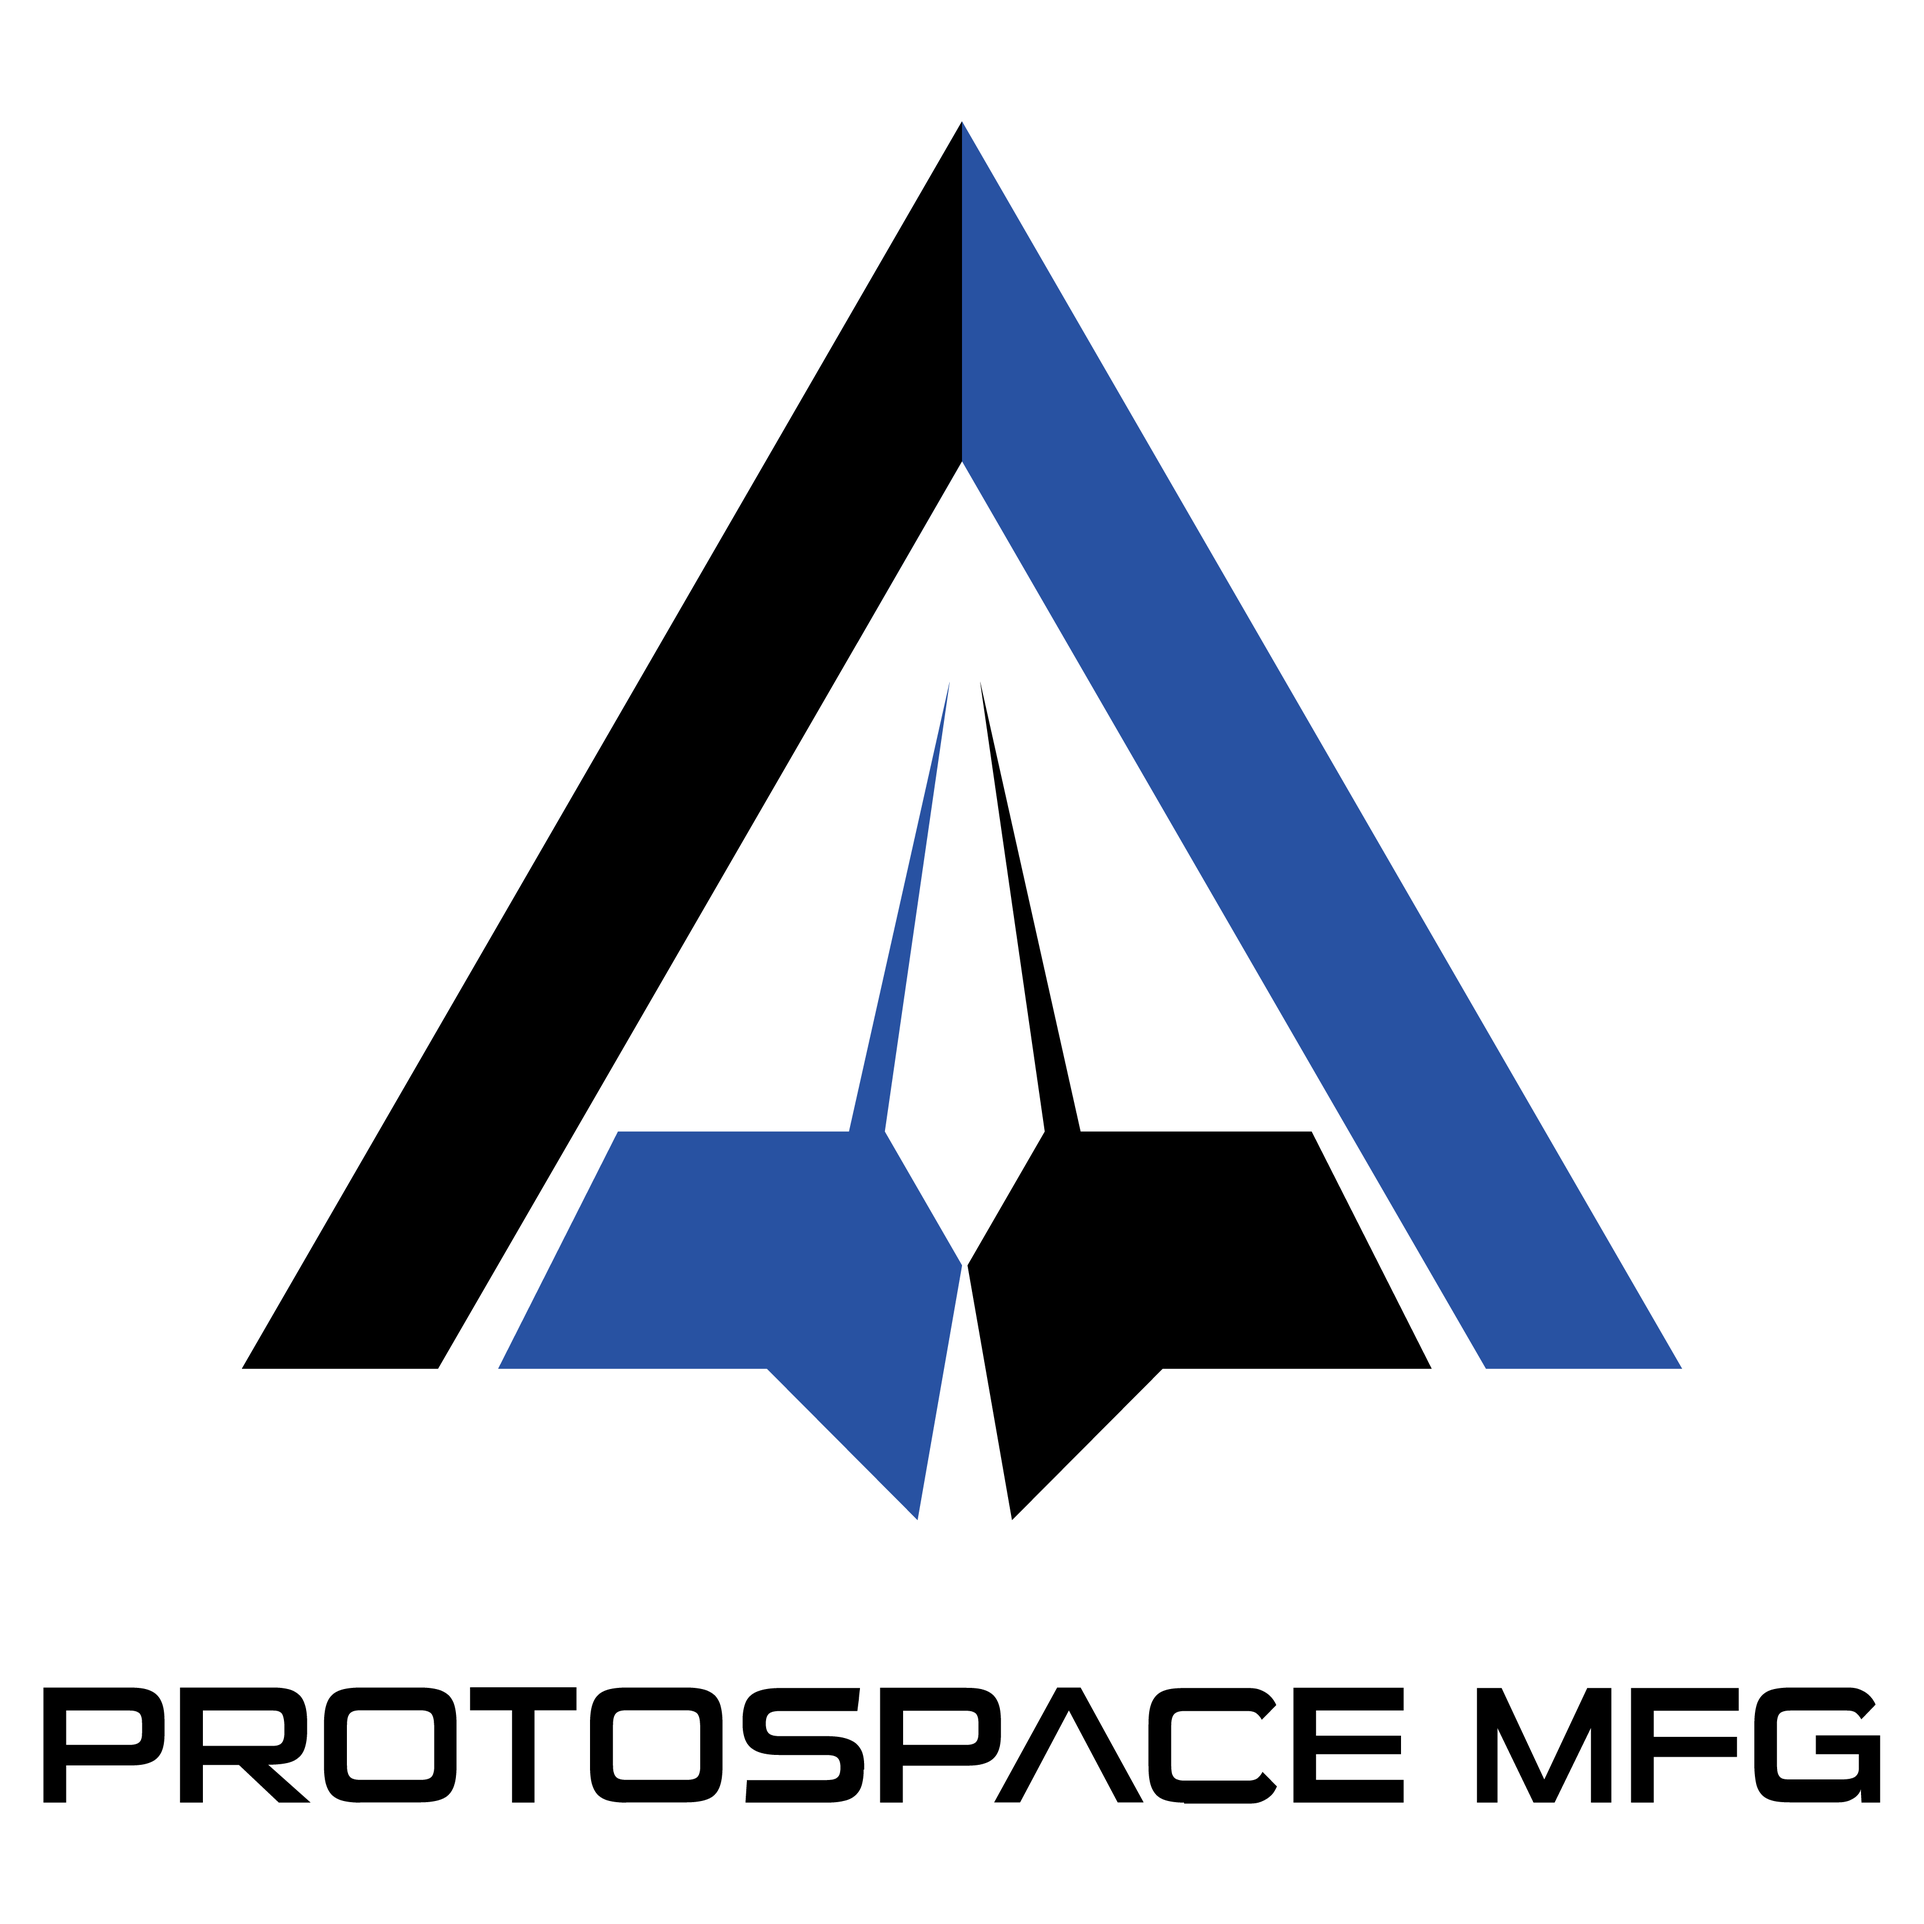
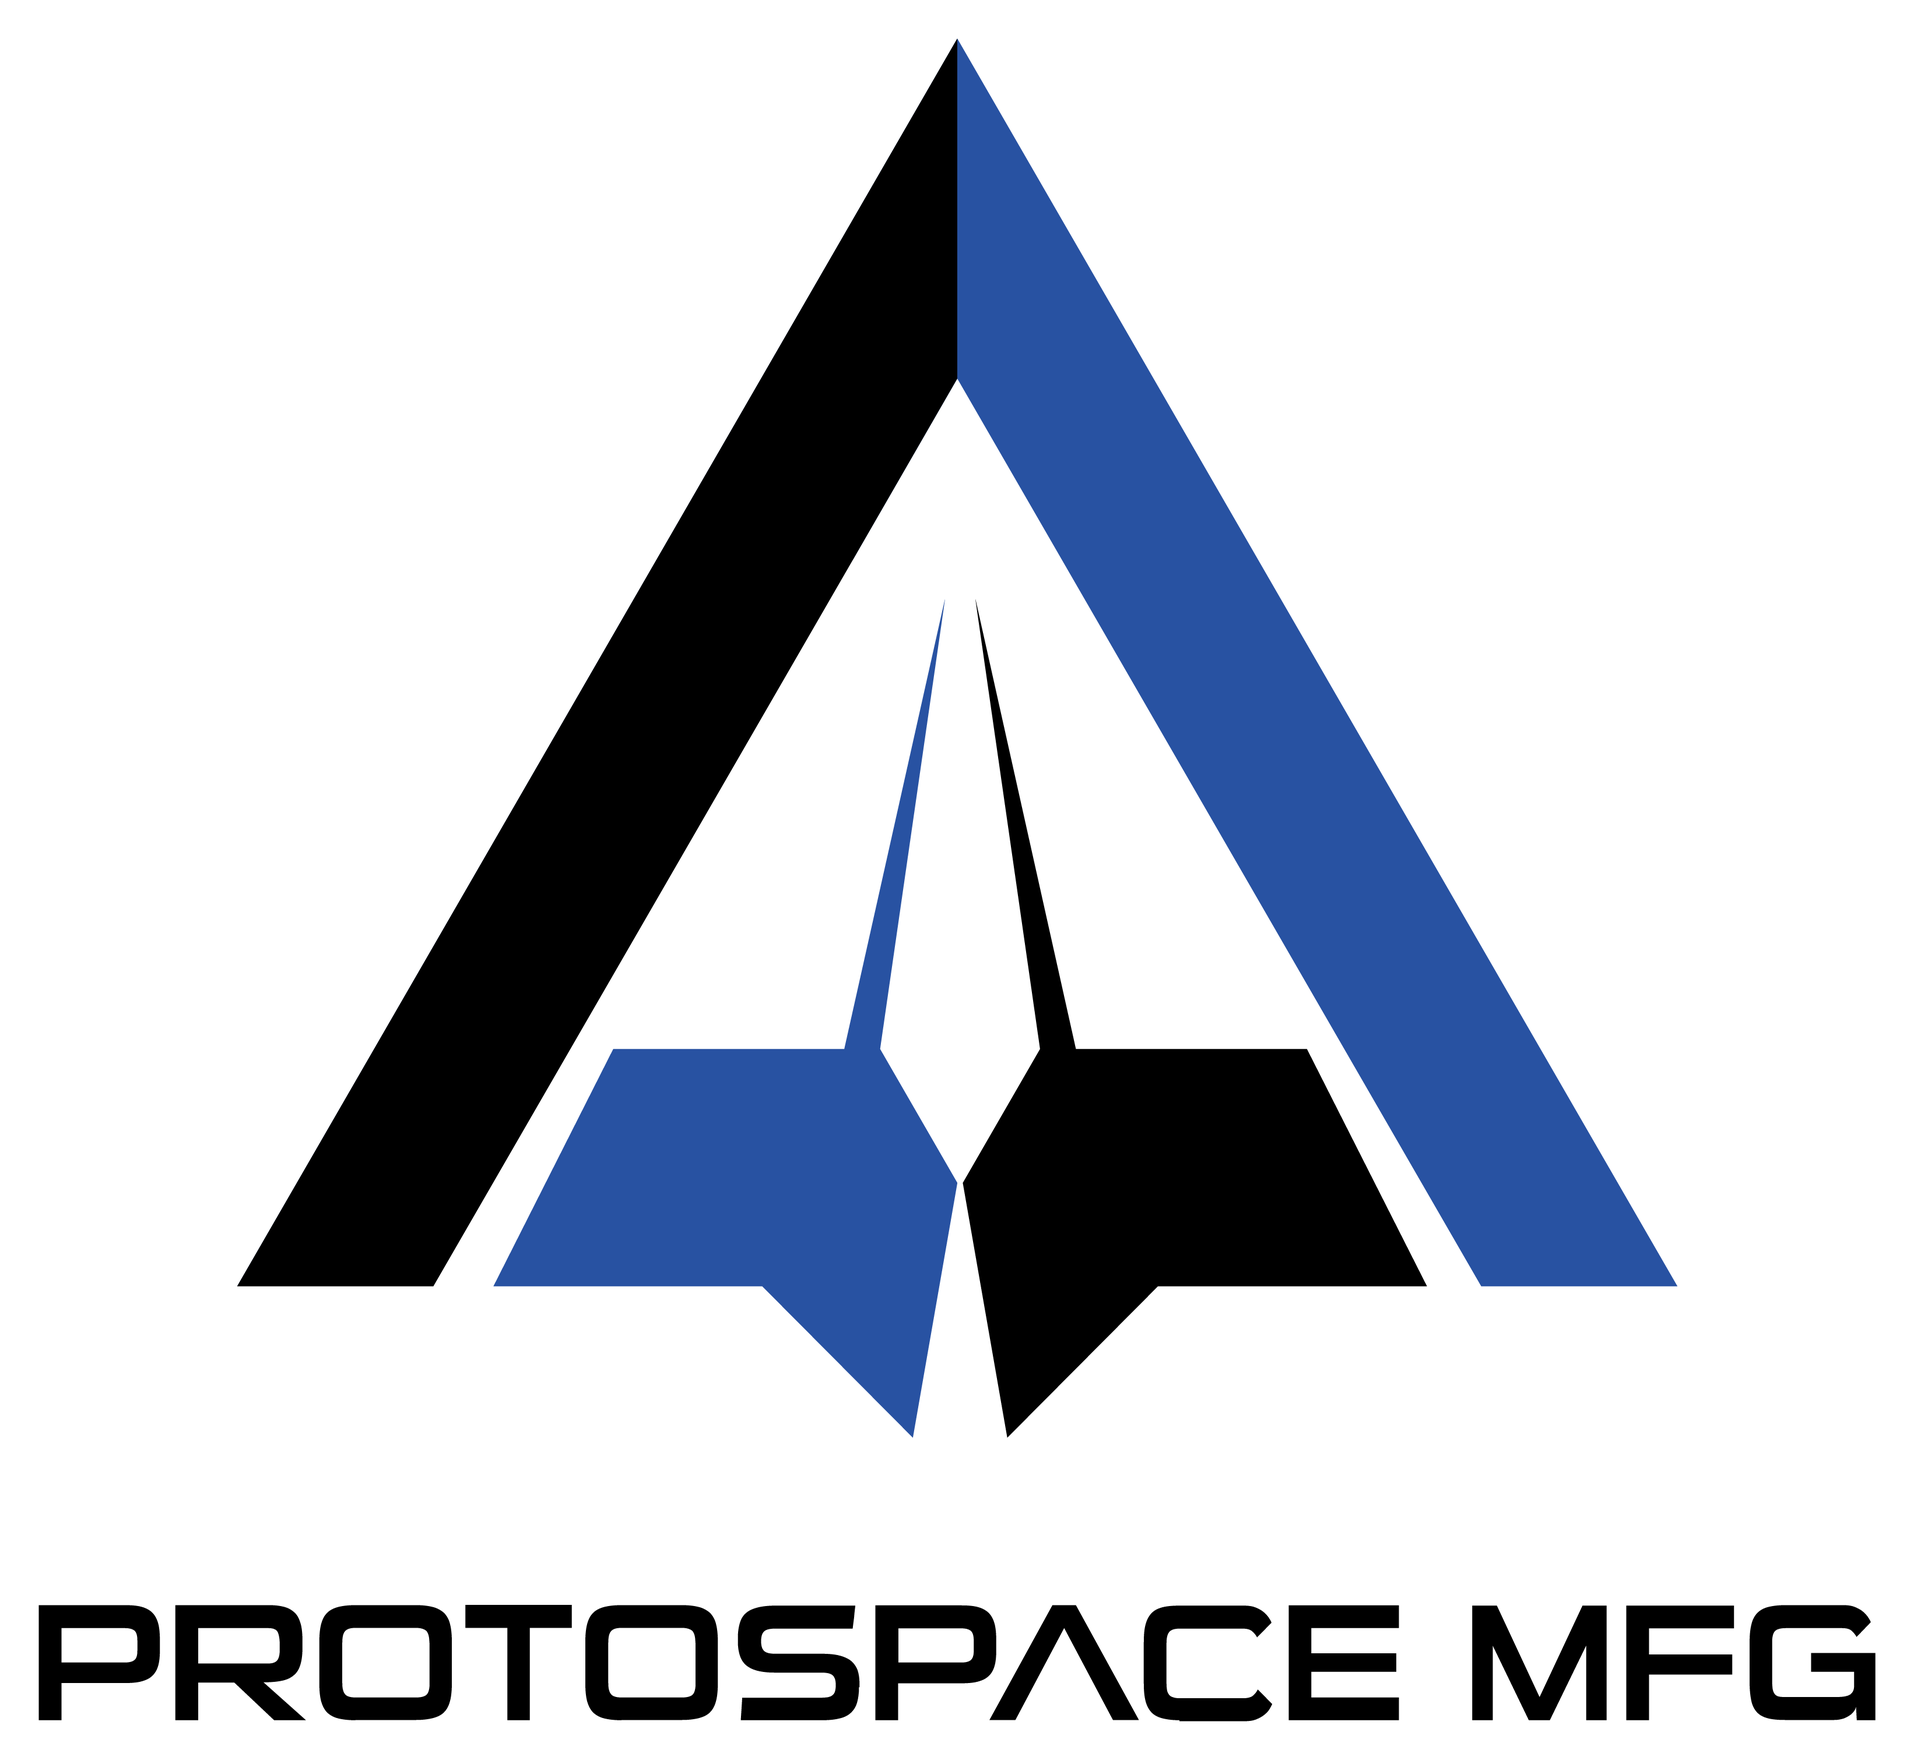
feat: rebuild partners page around a full-bleed white band
The page previously showed small logos on dark cards, which undersold the
partners and forced light artwork onto a dark ground. The partner section
is now a full-bleed white band broken into two labelled levels:

- LEVEL 01, who funds the team: McKelvey and Physics, two-up, logos at
  7rem to 9rem with room to breathe.
- LEVEL 02, in-kind partners: the five companies giving parts,
  manufacturing and software, three-up on desktop.

White is the functional choice rather than a stylistic one. Every partner
supplied full-colour artwork drawn for light backgrounds, and MISUMI's
guidelines forbid recolouring, so a white ground is the only way to show
all seven marks exactly as their owners issued them.

Added the last three logos: WashU Department of Physics, SolidWorks and
SendCutSend. All seven partners now have real artwork and the placeholder
path is unused, though it stays for whoever comes next.

Trimmed dead space from two files so they display at parity with the
others: MISUMI 1313x488 to 1118x154, ProtoSpace 3300x3300 to 3283x3018.
MISUMI had roughly 100px of transparent padding a side.

Claude-Session: https://claude.ai/code/session_01P6C1ou2d7tHGyuqjFDrT8p

diff --git a/src/routes/partners.tsx b/src/routes/partners.tsx
@@ -42,11 +42,10 @@ const SUPPORTS = [
 ];
 
 /**
- * Logos sit on a light tile rather than the page background. Several partners
- * forbid recolouring their mark, and most supplied only light-background
- * artwork, so a fixed light tile keeps every logo legible in dark mode without
- * us producing reverse versions they never approved. Falls back to the
- * partner's name when we have no file at all.
+ * Partner artwork is full-colour and drawn for light backgrounds, and several
+ * of them forbid recolouring. The whole partner section therefore sits on white
+ * rather than the site's dark ground, so every mark is shown exactly as its
+ * owner supplied it. Falls back to a wordmark when we have no file.
  */
 function PartnerLogo({
   partner,
@@ -55,13 +54,9 @@ function PartnerLogo({
   partner: Partner;
   className?: string;
 }) {
-  // Placeholder for partners who have not sent artwork yet. Set on the same
-  // light tile at the same height as a real logo so the grid does not go ragged,
-  // and styled as a wordmark rather than an empty box, so a visitor reads it as
-  // deliberate rather than broken.
   if (!partner.logo) {
     return (
-      <span className="font-mono text-center uppercase tracking-[0.12em] text-sm md:text-base font-medium text-neutral-800 leading-tight">
+      <span className="font-mono text-center uppercase tracking-[0.12em] text-base font-medium text-neutral-800">
         {partner.name}
       </span>
     );
@@ -73,6 +68,31 @@ function PartnerLogo({
       loading="lazy"
       className={className}
     />
+  );
+}
+
+function LevelHeading({
+  level,
+  title,
+  body,
+}: {
+  level: string;
+  title: string;
+  body: string;
+}) {
+  return (
+    <div className="flex flex-col gap-3 max-w-[46rem]">
+      <div className="flex items-center gap-3">
+        <span className="font-mono text-xs tracking-[0.25em] text-accent-red">
+          {level}
+        </span>
+        <span className="h-px flex-1 bg-neutral-300" />
+      </div>
+      <h2 className="font-mono text-2xl md:text-3xl font-semibold text-neutral-900">
+        {title}
+      </h2>
+      <p className="text-neutral-600 text-sm md:text-base">{body}</p>
+    </div>
   );
 }
 
@@ -96,68 +116,84 @@ function PartnersPage() {
         </div>
       }
     >
-      <div className="px-4 md:px-[4rem] py-8 flex flex-col gap-10">
-        <div className="flex flex-col gap-3">
-          <h2 className="font-mono uppercase text-xs tracking-wider text-foreground/60">
-            Who funds the team
-          </h2>
-          <div className="grid grid-cols-1 md:grid-cols-2 gap-4">
-            {primaryPartners.map((partner) => (
-              <a
-                key={partner.name}
-                href={partner.href}
-                target="_blank"
-                rel="noreferrer"
-                className="flex flex-col gap-4 border border-border rounded-md bg-background p-6 hover:bg-bg-highlight transition-colors duration-200"
-              >
-                <div className="flex items-center justify-center h-24 rounded-md bg-white px-5 py-4">
-                  <PartnerLogo
-                    partner={partner}
-                    className="max-h-full max-w-full w-auto object-contain"
-                  />
-                </div>
-                <div className="flex flex-col gap-1">
-                  <h3 className="font-sans font-medium">{partner.name}</h3>
-                  <p className="text-sm text-foreground/80">{partner.blurb}</p>
-                </div>
-              </a>
-            ))}
+      {/*
+        Full-bleed: GenericPage pads its children by 1rem a side, so pulling the
+        margins back by that much and growing the width to match lands the white
+        band exactly on the viewport edges without a horizontal scrollbar.
+      */}
+      <section className="-mx-4 w-[calc(100%+2rem)] bg-white py-16 md:py-24">
+        <div className="mx-auto max-w-[76rem] px-6 md:px-12 flex flex-col gap-16 md:gap-24">
+          <div className="flex flex-col gap-10">
+            <LevelHeading
+              level="LEVEL 01"
+              title="Who funds the team"
+              body="The two schools at Washington University paying for the hardware. Between them they cover structures, avionics, machining and the faculty guidance behind every mission we fly."
+            />
+            <div className="grid grid-cols-1 md:grid-cols-2 gap-6 md:gap-10">
+              {primaryPartners.map((partner) => (
+                <a
+                  key={partner.name}
+                  href={partner.href}
+                  target="_blank"
+                  rel="noreferrer"
+                  className="group flex flex-col gap-6 rounded-lg border border-neutral-200 bg-white p-8 md:p-10 hover:border-neutral-400 hover:shadow-lg transition-all duration-200"
+                >
+                  <div className="flex items-center justify-center h-28 md:h-36">
+                    <PartnerLogo
+                      partner={partner}
+                      className="max-h-full max-w-full w-auto object-contain transition-transform duration-200 group-hover:scale-[1.03]"
+                    />
+                  </div>
+                  <div className="flex flex-col gap-2">
+                    <h3 className="font-sans font-semibold text-lg text-neutral-900">
+                      {partner.name}
+                    </h3>
+                    <p className="text-sm md:text-base text-neutral-600 leading-relaxed">
+                      {partner.blurb}
+                    </p>
+                  </div>
+                </a>
+              ))}
+            </div>
+          </div>
+
+          <div className="flex flex-col gap-10">
+            <LevelHeading
+              level="LEVEL 02"
+              title="In-kind partners"
+              body="Companies who give us parts, manufacturing and software instead of cash. Much of what flies was cut, machined, simulated or designed with something on this list."
+            />
+            <div className="grid grid-cols-1 sm:grid-cols-2 lg:grid-cols-3 gap-6">
+              {inKindPartners.map((partner) => (
+                <a
+                  key={partner.name}
+                  href={partner.href}
+                  target="_blank"
+                  rel="noreferrer"
+                  className="group flex flex-col gap-5 rounded-lg border border-neutral-200 bg-white p-6 hover:border-neutral-400 hover:shadow-md transition-all duration-200"
+                >
+                  <div className="flex items-center justify-center h-20 md:h-24">
+                    <PartnerLogo
+                      partner={partner}
+                      className="max-h-full max-w-full w-auto object-contain transition-transform duration-200 group-hover:scale-[1.03]"
+                    />
+                  </div>
+                  <div className="flex flex-col gap-2 min-w-0">
+                    <h3 className="font-sans font-semibold text-neutral-900">
+                      {partner.name}
+                    </h3>
+                    <p className="text-sm text-neutral-600 leading-relaxed">
+                      {partner.blurb}
+                    </p>
+                  </div>
+                </a>
+              ))}
+            </div>
           </div>
         </div>
+      </section>
 
-        <div className="flex flex-col gap-3">
-          <h2 className="font-mono uppercase text-xs tracking-wider text-foreground/60">
-            In-kind partners
-          </h2>
-          <p className="text-sm text-foreground/70 max-w-[46rem]">
-            Companies who give us parts, manufacturing and software instead of
-            cash. Much of what flies was cut, machined, simulated or designed
-            with something on this list.
-          </p>
-          <div className="grid grid-cols-1 md:grid-cols-2 lg:grid-cols-3 gap-4">
-            {inKindPartners.map((partner) => (
-              <a
-                key={partner.name}
-                href={partner.href}
-                target="_blank"
-                rel="noreferrer"
-                className="flex flex-col gap-4 border border-border rounded-md bg-background p-4 hover:bg-bg-highlight transition-colors duration-200"
-              >
-                <div className="flex items-center justify-center h-20 rounded-md bg-white px-4 py-3">
-                  <PartnerLogo
-                    partner={partner}
-                    className="max-h-full max-w-full w-auto object-contain"
-                  />
-                </div>
-                <div className="flex flex-col gap-1 min-w-0">
-                  <h3 className="font-sans font-medium text-sm">{partner.name}</h3>
-                  <p className="text-sm text-foreground/80">{partner.blurb}</p>
-                </div>
-              </a>
-            ))}
-          </div>
-        </div>
-
+      <div className="px-4 md:px-[4rem] py-12 flex flex-col gap-10">
         <div className="flex flex-col gap-3">
           <h2 className="font-mono uppercase text-xs tracking-wider text-foreground/60">
             What your support funds

diff --git a/src/const/content/partners.ts b/src/const/content/partners.ts
@@ -29,6 +29,7 @@ export const primaryPartners: Partner[] = [
   {
     name: "Department of Physics",
     href: "https://physics.wustl.edu/",
+    logo: "/partners/washu-physics.png",
     blurb:
       "Backs the science side of the missions, including our work through the Air Force Research Laboratory's University Nanosatellite Program, and gives us the faculty guidance behind AIRIS and SCALAR.",
   },
@@ -63,12 +64,14 @@ export const inKindPartners: Partner[] = [
   {
     name: "SendCutSend",
     href: "https://sendcutsend.com/",
+    logo: "/partners/sendcutsend.png",
     blurb:
       "Laser cutting and sheet metal fabrication. Their parts are already flying on AIRIS, and they have backed the team across three separate sponsorship rounds.",
   },
   {
     name: "SolidWorks",
     href: "https://www.solidworks.com/",
+    logo: "/partners/solidworks.png",
     blurb:
       "CAD licences for every member of the team, plus certification exams that give students a credential to leave with.",
   },
